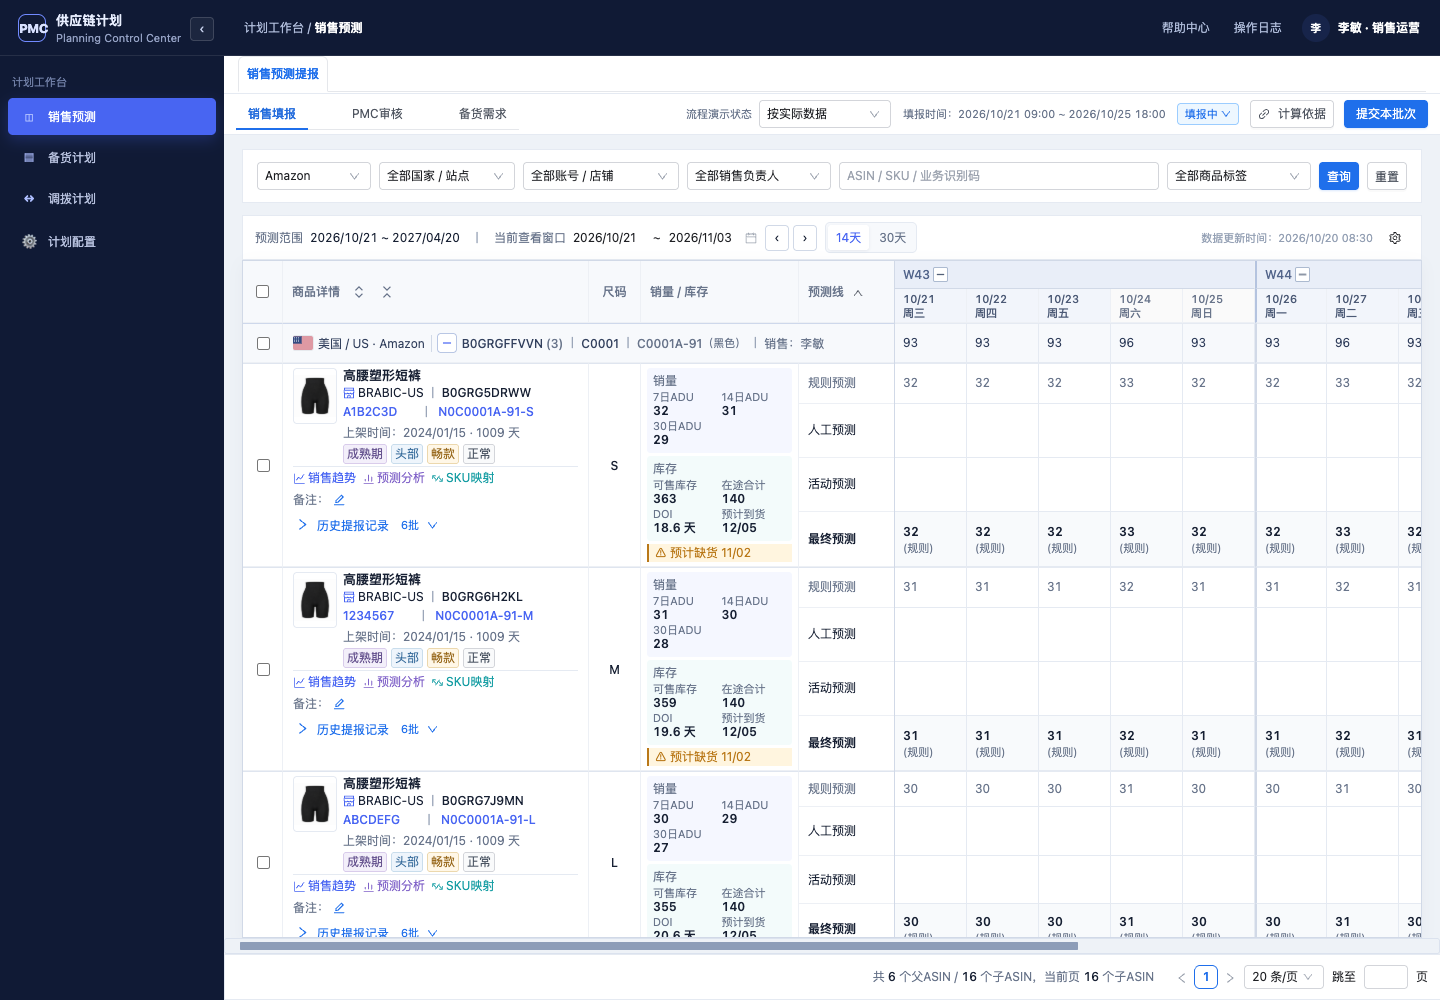
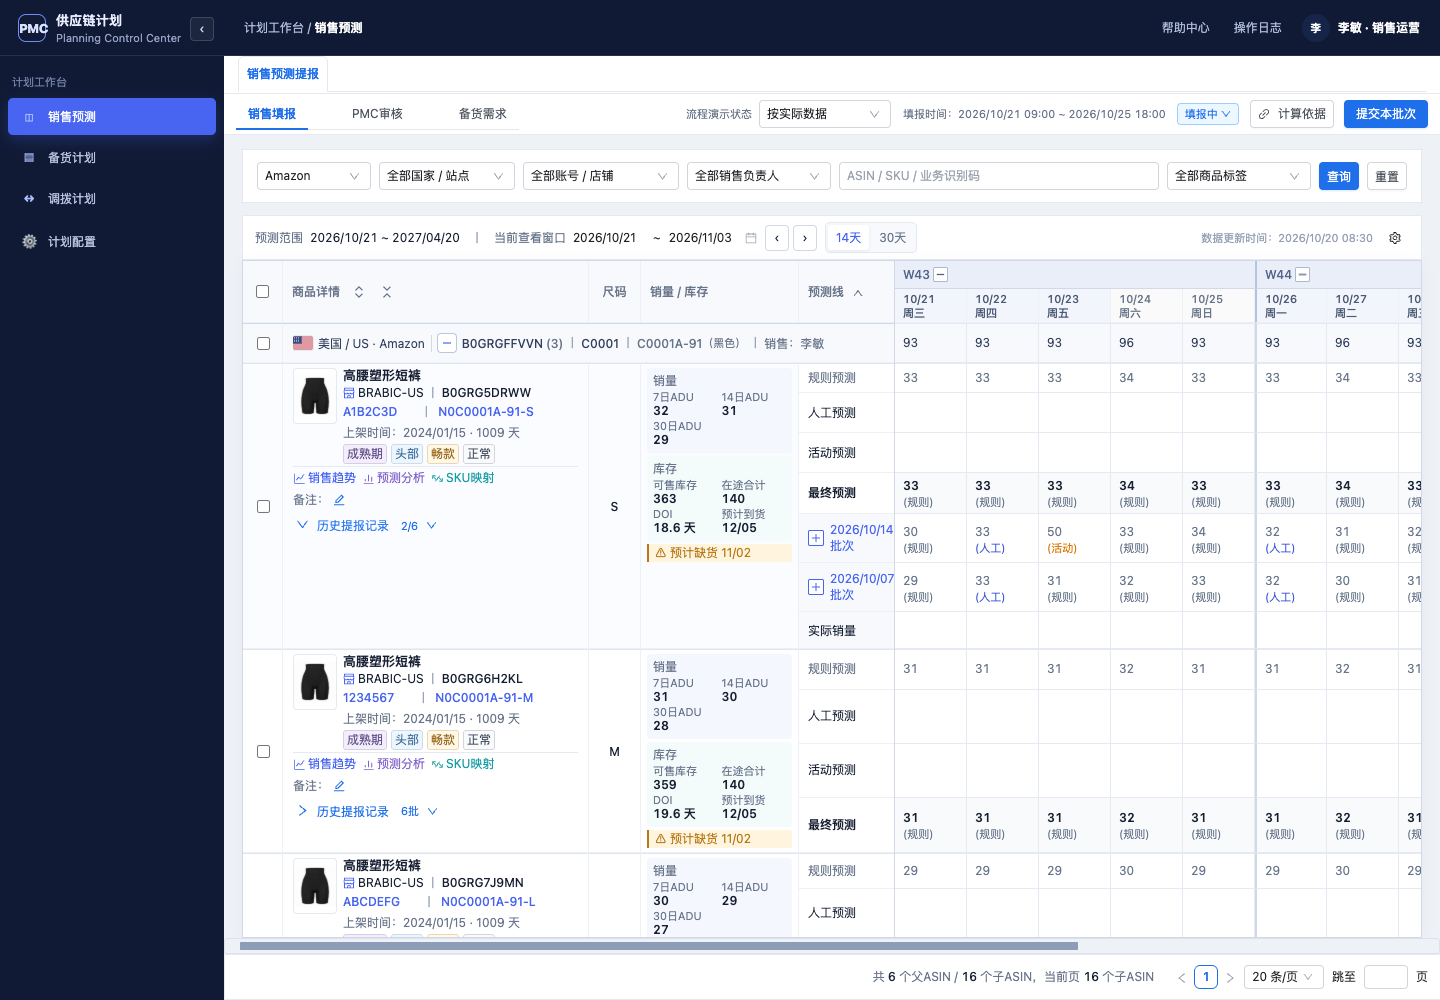
fix: align historical sales values

diff --git a/供应链数字化_Codex完整项目接管包/04_原型/销售预测提报_独立原型_V0.1/reviews/v0.3.3-pmc11/sales-freeze.css b/供应链数字化_Codex完整项目接管包/04_原型/销售预测提报_独立原型_V0.1/reviews/v0.3.3-pmc11/sales-freeze.css
@@ -220,7 +220,22 @@
   display:none;
 }
 .app .forecast-table .history-label {text-align:left;}
-.app .forecast-table .history-value {display:inline-block;min-height:16px;}
+.app .forecast-table tr.history-row > td.date-col,
+.app .forecast-table tr.history-component > td.date-col,
+.app .forecast-table tr.actual-row > td.date-col,
+.app .forecast-table tr.deviation-row > td.date-col {
+  text-align:left;
+  padding-left:8px;
+  padding-right:8px;
+}
+.app .forecast-table .history-value {
+  display:inline-flex;
+  flex-direction:column;
+  align-items:flex-start;
+  justify-content:center;
+  min-height:16px;
+  text-align:left;
+}
 .app .forecast-table .history-value[data-history-preview-host] {
   color:var(--blue);
   cursor:pointer;
@@ -228,10 +243,11 @@
 .app .forecast-table .history-final-value {
   display:inline-flex;
   flex-direction:column;
-  align-items:flex-end;
+  align-items:flex-start;
   justify-content:center;
   gap:1px;
   line-height:16px;
+  text-align:left;
 }
 .app .forecast-table .history-final-value .history-number {
   font-size:12px;

diff --git a/供应链数字化_Codex完整项目接管包/04_原型/销售预测提报_独立原型_V0.1/sales-freeze.css b/供应链数字化_Codex完整项目接管包/04_原型/销售预测提报_独立原型_V0.1/sales-freeze.css
@@ -219,7 +219,22 @@
   display:none;
 }
 .app .forecast-table .history-label {text-align:left;}
-.app .forecast-table .history-value {display:inline-block;min-height:16px;}
+.app .forecast-table tr.history-row > td.date-col,
+.app .forecast-table tr.history-component > td.date-col,
+.app .forecast-table tr.actual-row > td.date-col,
+.app .forecast-table tr.deviation-row > td.date-col {
+  text-align:left;
+  padding-left:8px;
+  padding-right:8px;
+}
+.app .forecast-table .history-value {
+  display:inline-flex;
+  flex-direction:column;
+  align-items:flex-start;
+  justify-content:center;
+  min-height:16px;
+  text-align:left;
+}
 .app .forecast-table .history-value[data-history-preview-host] {
   color:var(--blue);
   cursor:pointer;
@@ -227,10 +242,11 @@
 .app .forecast-table .history-final-value {
   display:inline-flex;
   flex-direction:column;
-  align-items:flex-end;
+  align-items:flex-start;
   justify-content:center;
   gap:1px;
   line-height:16px;
+  text-align:left;
 }
 .app .forecast-table .history-final-value .history-number {
   font-size:12px;

diff --git a/供应链数字化_Codex完整项目接管包/04_原型/销售预测提报_独立原型_V0.1/reviews/v0.3.3-pmc11/index.html b/供应链数字化_Codex完整项目接管包/04_原型/销售预测提报_独立原型_V0.1/reviews/v0.3.3-pmc11/index.html
@@ -434,7 +434,7 @@
   <link rel="stylesheet" href="v031.css?v=0.3.1" />
   <link rel="stylesheet" href="v032.css?v=0.3.2" />
   <link rel="stylesheet" href="v033.css?v=0.3.3-pmc5" />
-  <link rel="stylesheet" href="sales-freeze.css?v=4" />
+  <link rel="stylesheet" href="sales-freeze.css?v=5" />
   <link rel="stylesheet" href="parent-asin.css?v=0.3.3-pmc11" />
   <link rel="stylesheet" href="parent-asin-config12.css?v=0.3.3-config12" />
   <link rel="stylesheet" href="forecast-plan.css?v=0.3.3-batch1" />

diff --git a/供应链数字化_Codex完整项目接管包/04_原型/销售预测提报_独立原型_V0.1/index.html b/供应链数字化_Codex完整项目接管包/04_原型/销售预测提报_独立原型_V0.1/index.html
@@ -434,7 +434,7 @@
   <link rel="stylesheet" href="v031.css?v=0.3.1" />
   <link rel="stylesheet" href="v032.css?v=0.3.2" />
   <link rel="stylesheet" href="v033.css?v=0.3.3-pmc5" />
-  <link rel="stylesheet" href="sales-freeze.css?v=4" />
+  <link rel="stylesheet" href="sales-freeze.css?v=5" />
   <link rel="stylesheet" href="parent-asin.css?v=0.3.3-pmc10" />
 </head>
 <body>

diff --git a/供应链数字化_Codex完整项目接管包/04_原型/销售预测提报_独立原型_V0.1/README.md b/供应链数字化_Codex完整项目接管包/04_原型/销售预测提报_独立原型_V0.1/README.md
@@ -2,7 +2,7 @@
 
 这是一次全新起炉灶的 PMC「销售预测提报」原型，不复用旧版销售预测页面的代码和页面结构。
 
-当前使用版为 **V0.3.4-sync1**。本迭代修复计划配置与销售填报的预测数据串联，并保留 V0.3.3 的销售提报交互与可回滚历史。V0.3.5 RC1 已撤销并删除，不再提供候选对比入口。
+当前使用版为 **V0.3.4-sync2**。本迭代修复计划配置与销售填报的预测数据串联，并将历史提报记录的销量/预测数值统一为左对齐；保留 V0.3.3 的销售提报交互与可回滚历史。V0.3.5 RC1 已撤销并删除，不再提供候选对比入口。
 
 ## 运行
 

diff --git a/供应链数字化_Codex完整项目接管包/04_原型/销售预测提报_独立原型_V0.1/CHANGELOG.md b/供应链数字化_Codex完整项目接管包/04_原型/销售预测提报_独立原型_V0.1/CHANGELOG.md
@@ -1,5 +1,10 @@
 # CHANGELOG
 
+## 2026-09-27 · V0.3.4-sync2 · 历史提报记录销量左对齐
+
+- 修复销售预测菜单展开历史提报记录后，历史销量/历史预测数值仍受数字列右对齐影响的问题；历史批次、实际销量、拆分明细和偏差行统一按销售填报日级单元格左侧起排。
+- 提升销售填报冻结样式缓存版本，避免评审预览继续加载旧版 `sales-freeze.css`。
+
 ## 2026-09-27 · V0.3.4-sync1 · 计划配置与销售填报预测合同串联
 
 - 修复计划配置与销售填报各自维护演示 `qty` / 日级预测，导致同一子ASIN同一天最终预测不一致的问题。
